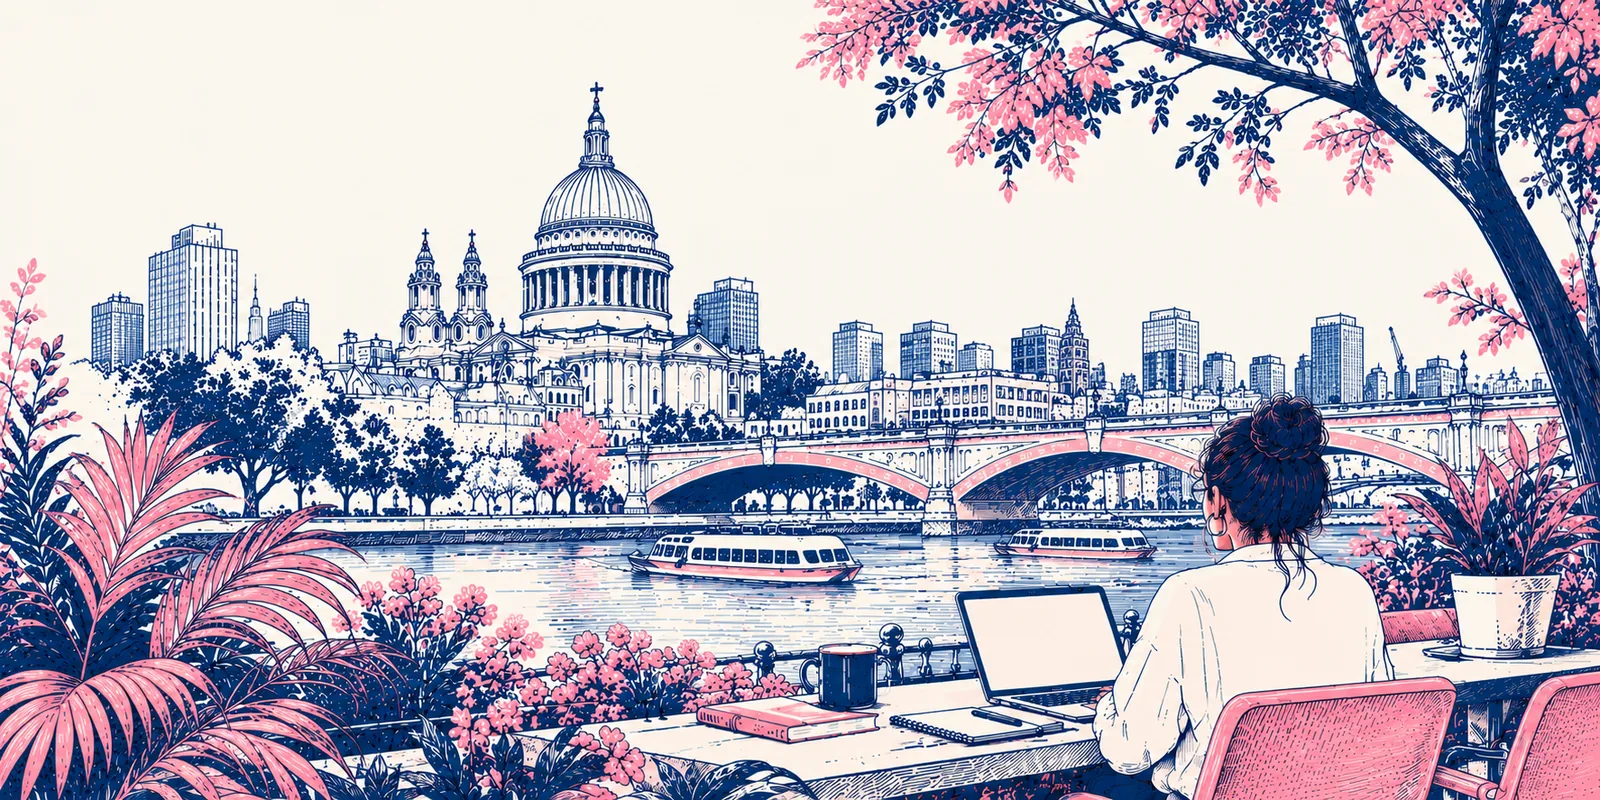
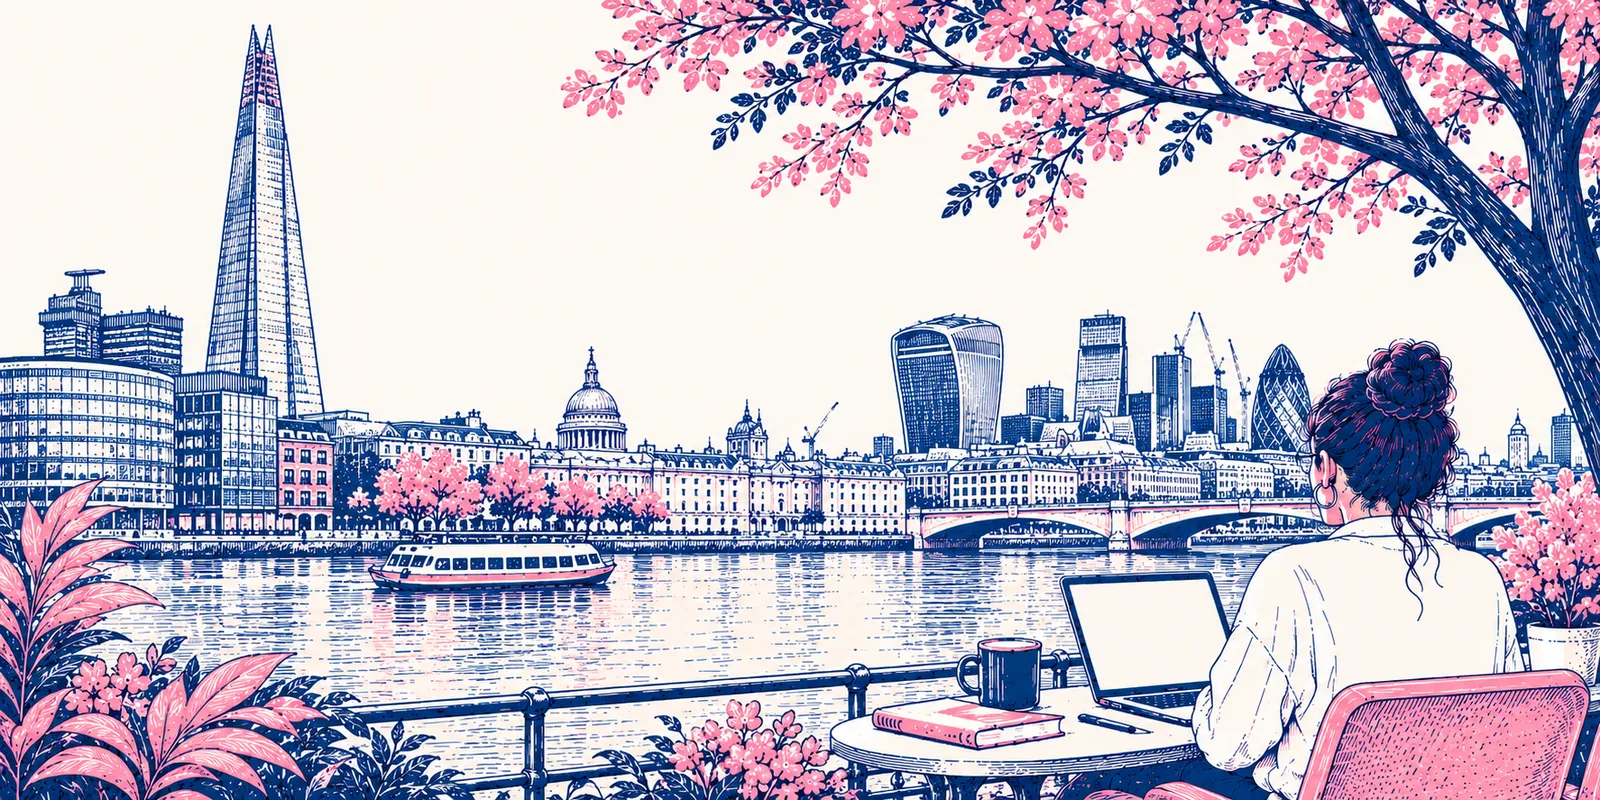
New hero illustration
Claude-Session: https://claude.ai/code/session_01UtbpKv2HTGF8gsLGr18NNB

diff --git a/index.html b/index.html
@@ -9,7 +9,7 @@
 <link href="/favicon.svg?v=2" rel="icon" type="image/svg+xml"/>
 <script data-website-id="1eae9226-3593-46a5-8732-28bc98659456" defer="" src="https://cloud.umami.is/script.js"></script>
 <script defer="" src="/a.js"></script>
-<link as="image" href="img/hero-london-pink-1600.webp" imagesizes="(min-width:900px) 720px, 100vw" imagesrcset="img/hero-london-pink-900.webp 900w, img/hero-london-pink-1600.webp 1600w" rel="preload"/>
+<link as="image" href="img/hero-london-pink-1600.webp?v=3" imagesizes="(min-width:900px) 720px, 100vw" imagesrcset="img/hero-london-pink-900.webp?v=3 900w, img/hero-london-pink-1600.webp?v=3 1600w" rel="preload"/>
 <link crossorigin="" href="https://fonts.gstatic.com" rel="preconnect"/>
 <link href="https://fonts.googleapis.com/css2?family=IBM+Plex+Mono:wght@400;500&amp;family=IBM+Plex+Sans:wght@400;500;600&amp;family=Newsreader:ital,opsz,wght@0,6..72,400..500;1,6..72,400..500&amp;display=swap" rel="stylesheet"/>
 <style>
@@ -293,7 +293,7 @@ h2{font-family:var(--serif);font-weight:400;font-size:clamp(30px,4vw,48px);line-
 .lines a,.lines span{font-family:var(--mono);font-size:14.5px;color:#c9d7e4;padding-block:8px}
 .lines a{text-decoration:underline;text-decoration-color:rgba(255,255,255,.3);text-underline-offset:5px}
 .lines a:hover{color:#fff;text-decoration-color:#f4a3bb}
-.postcard{margin:clamp(40px,6vw,80px) 0 0;height:clamp(200px,28vw,360px);border-radius:18px 18px 0 0;background:var(--paper) url(img/hero-london-pink-1600.webp) 12% 90%/auto 190% no-repeat;box-shadow:0 -1px 0 rgba(255,255,255,.18)}
+.postcard{margin:clamp(40px,6vw,80px) 0 0;height:clamp(200px,28vw,360px);border-radius:18px 18px 0 0;background:var(--paper) url(img/hero-london-pink-1600.webp?v=3) 12% 90%/auto 190% no-repeat;box-shadow:0 -1px 0 rgba(255,255,255,.18)}
 footer{background:var(--blue)}
 footer .wrap{display:flex;justify-content:space-between;gap:16px;flex-wrap:wrap;padding-block:22px 40px;font-size:13px;color:#9fb4c9;border-top:0}
 
@@ -397,7 +397,7 @@ footer .wrap{display:flex;justify-content:space-between;gap:16px;flex-wrap:wrap;
 <a class="link" href="#contact">Get in touch <span aria-hidden="true">→</span></a>
 </div>
 </div>
-<div class="arch"><img alt="Blue and pink line drawing of the London skyline across the Thames, with St Paul's and a bridge behind, and a woman working at a laptop under a tree in the foreground." decoding="async" fetchpriority="high" height="800" sizes="100vw" src="img/hero-london-pink-1600.webp" srcset="img/hero-london-pink-900.webp 900w, img/hero-london-pink-1600.webp 1600w" width="1600"/></div>
+<div class="arch"><img alt="Blue and pink line drawing of the London skyline across the Thames, with St Paul's and a bridge behind, and a woman working at a laptop under a tree in the foreground." decoding="async" fetchpriority="high" height="800" sizes="100vw" src="img/hero-london-pink-1600.webp?v=3" srcset="img/hero-london-pink-900.webp?v=3 900w, img/hero-london-pink-1600.webp?v=3 1600w" width="1600"/></div>
 </div></section>
 <section id="work"><div class="wrap">
 <div class="head rv"><span class="lab">Selected work</span></div>
